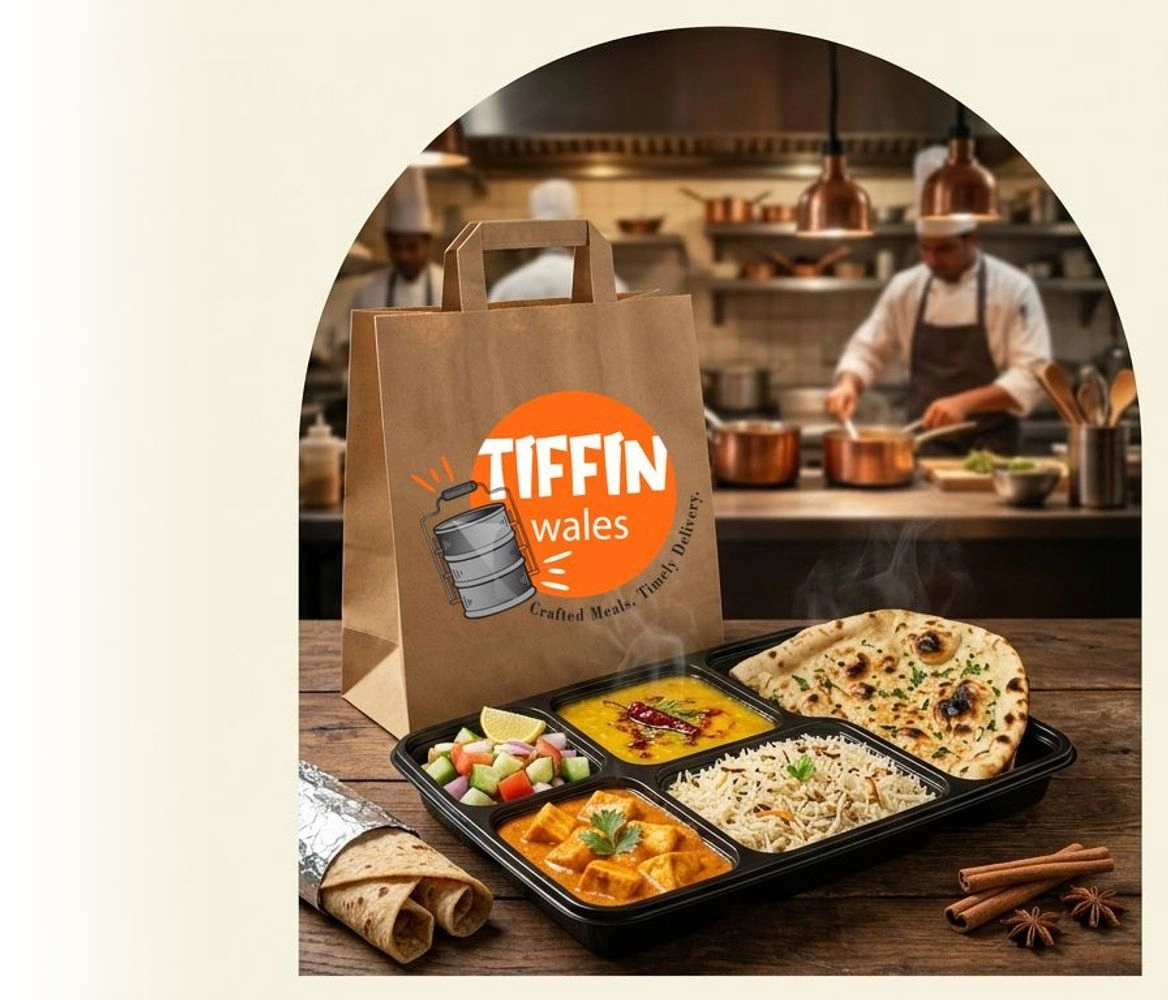
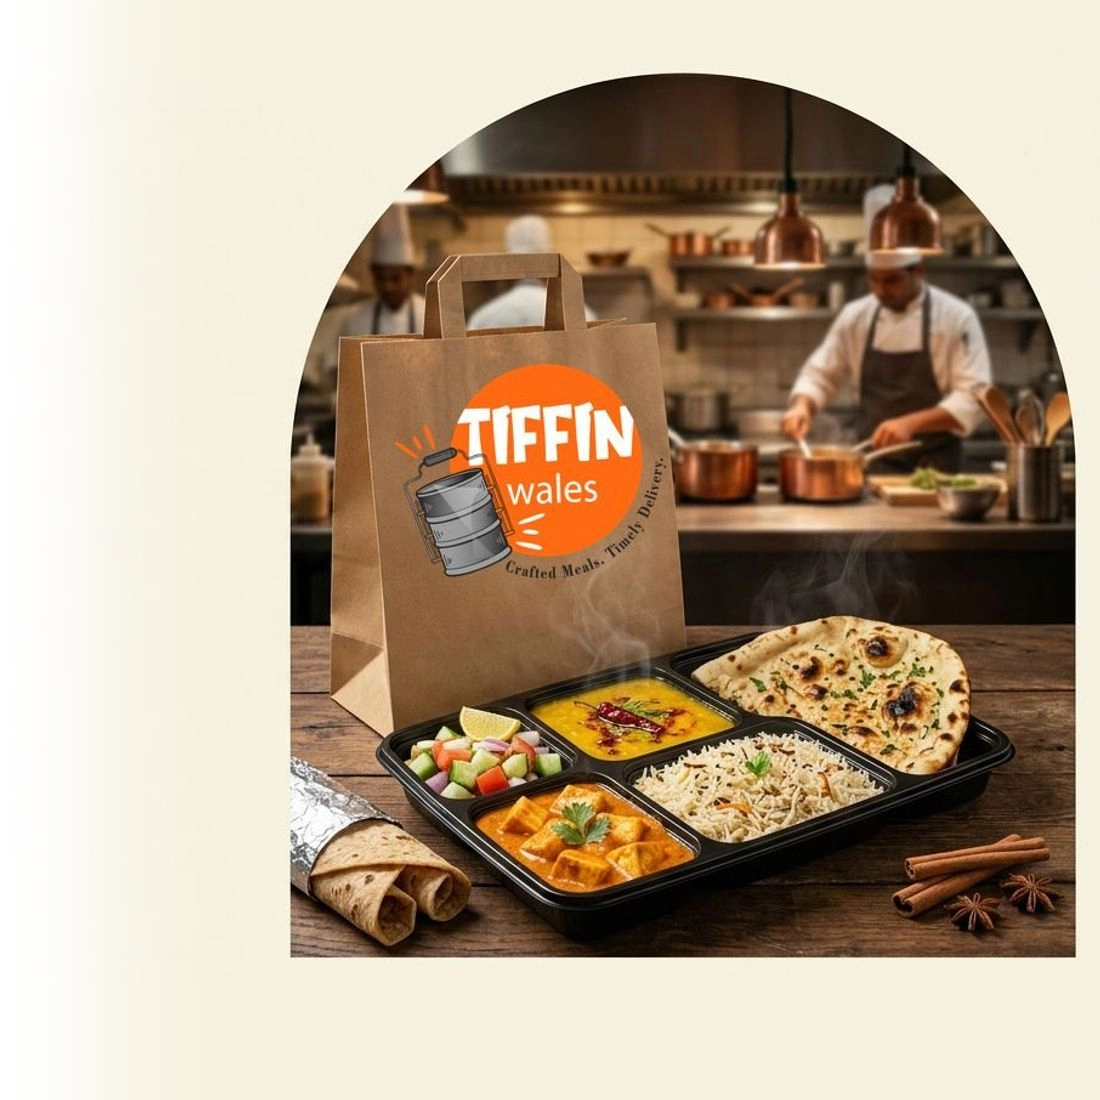
Fix bottom crop on hero image: add generous bottom canvas clearance and remove scaling overflow

diff --git a/src/components/HeroSection.module.css b/src/components/HeroSection.module.css
@@ -385,7 +385,7 @@
   height: 100%;
   width: 100%;
   position: relative;
-  padding: 0;
+  padding: 10px 0 18px 0;
 }
 
 .heroImageCard {
@@ -409,13 +409,11 @@
   display: block;
   width: auto;
   max-width: 100%;
-  height: 100%;
-  max-height: clamp(560px, 92%, 720px);
+  height: auto;
+  max-height: clamp(520px, 90%, 680px);
   object-fit: contain;
   object-position: right center;
-  filter: drop-shadow(0 18px 40px rgba(0, 0, 0, 0.14));
-  transform: scale(1.12);
-  transform-origin: right center;
+  filter: drop-shadow(0 14px 34px rgba(0, 0, 0, 0.12));
   transition: transform 0.3s ease;
 }
 
